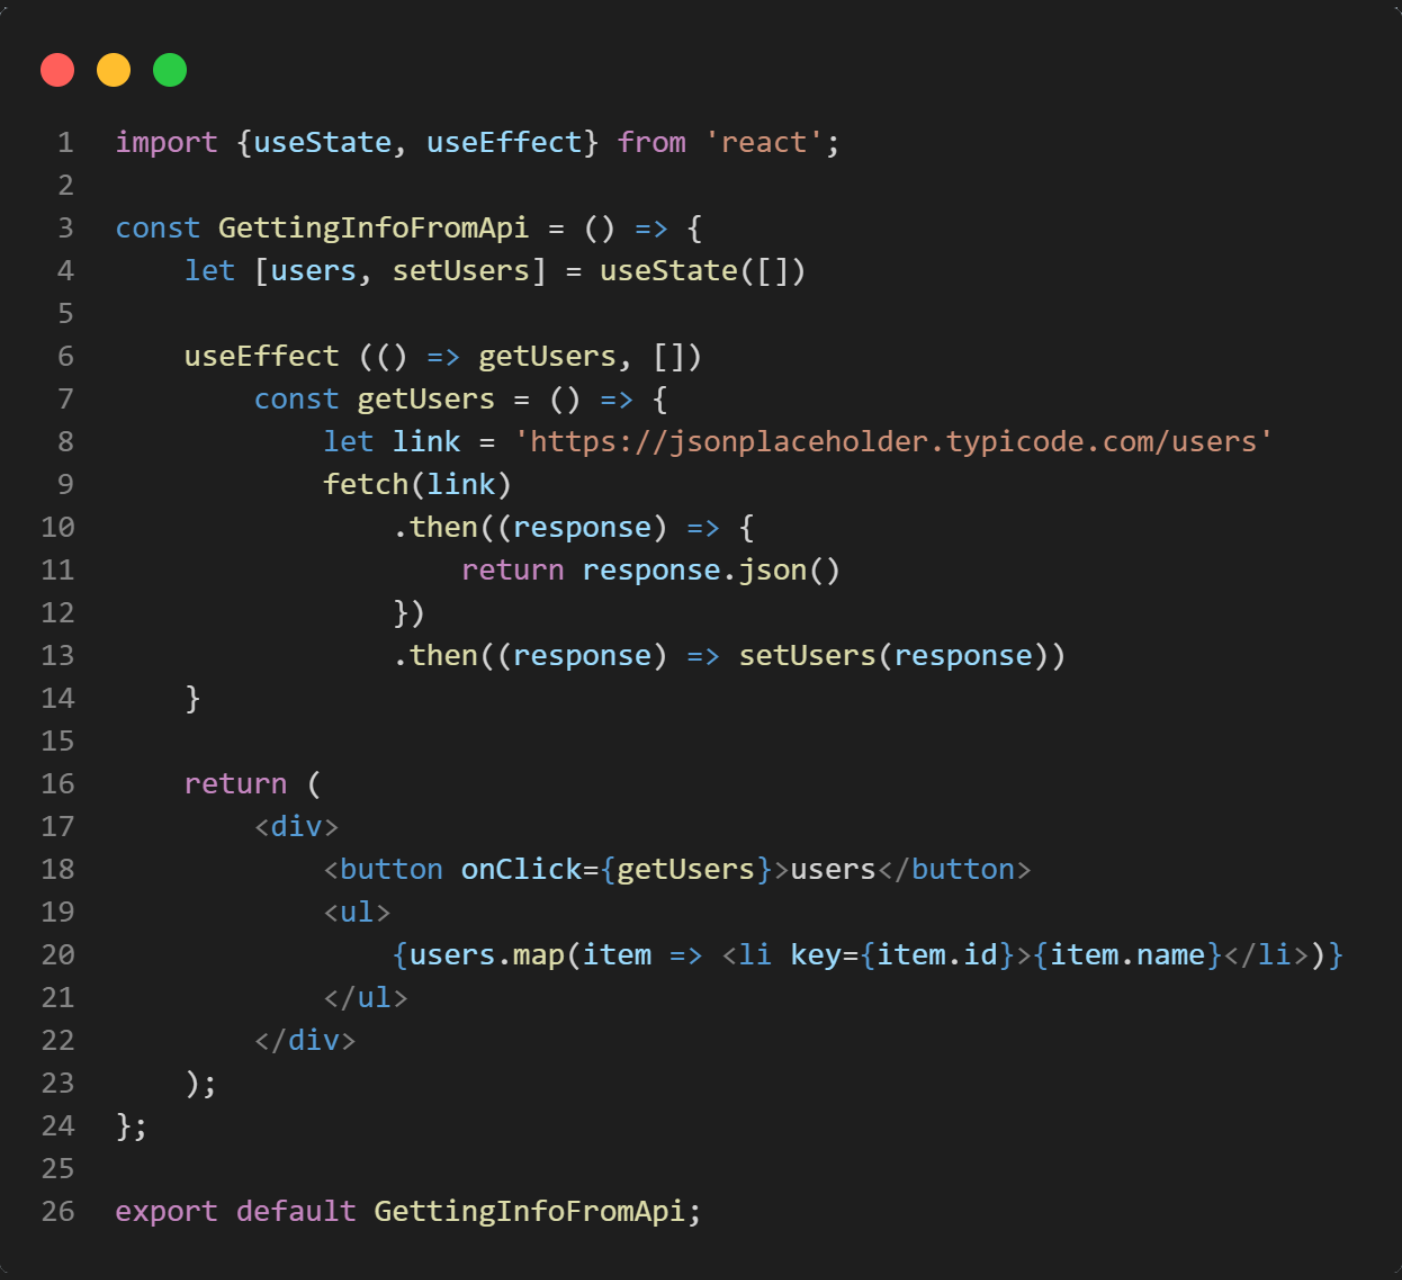
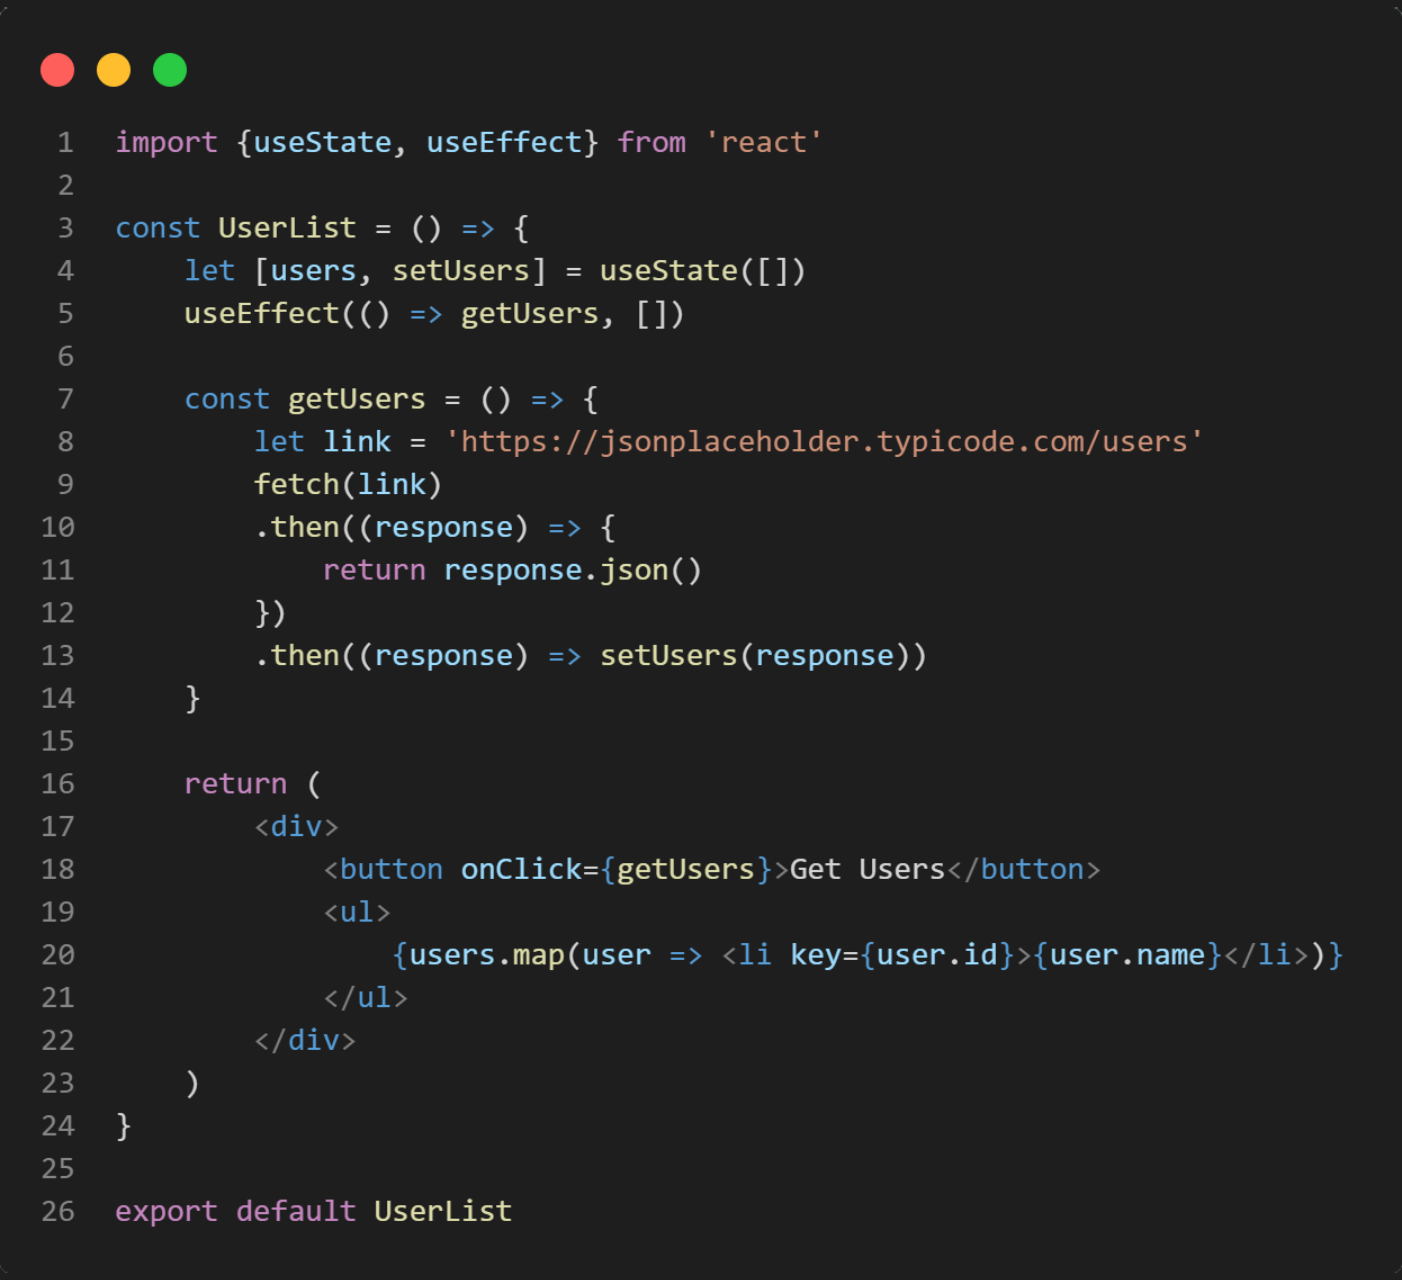
v12.3

diff --git a/src/App.js b/src/App.js
@@ -47,6 +47,7 @@ import reactSearchPattern from './images/search-pattern_react.png'
 import categoryReactPattern from './images/categories-pattern_react.png'
 import useEffectWithAllArgs from './images/useEffectWithAllArgs.png'
 import gettingInfoFromApi from './images/gettingInfoFromApi.png'
+import gettingInfoFromApiKY from './images/gettingInfoFromApiKY.png'
 
 const content = [
   {image: filterMethod, caption: 'filter', text: {ua: 'filter - це метод, що створює новий унікальний масив з чіткими критеріями на основі обранного масиву', en: 'filter is a method that creates a new unique array with specific criteria based on the selected array'}, link: 'https://developer.mozilla.org/ru/docs/Web/JavaScript/Reference/Global_Objects/Array/filter', type: 'method', code: 
@@ -521,7 +522,7 @@ console.log(isIsogram('aba'))`},
 console.log(getDirection('JS')) 
 console.log(getDirection('Python')) 
 console.log(getDirection('Dart'))`},
-  {image: reactSearchPattern, caption: 'React Search Pattern', text: {ua: 'Цей паттерн проєктування передбачає пошуковий інпут куди через атрибут onChange() передається подію, тобто літери для пошуку. Далі ці літери переходять до useState() з допомогою якого і робиться оброблення пошукового запиту', en: 'This design pattern provides a search input where an event is passed through the onChange() attribute, i.e. the letters to search for. Next, these letters go to useState(), which is used to process the search query'}, link: '#', type: 'React Pattern', code: 
+  {image: reactSearchPattern, caption: 'React Search Pattern', text: {ua: 'Цей паттерн проєктування передбачає пошуковий інпут куди через атрибут onChange() передається подію, тобто літери для пошуку. Далі ці літери переходять до useState() з допомогою якого і робиться оброблення пошукового запиту', en: 'This design pattern provides a search input where an event is passed through the onChange() attribute, i.e. the letters to search for. Next, these letters go to useState(), which is used to process the search query'}, link: '#', type: 'React', code: 
 `import {useState} from 'react' 
 
 const Filter = ({content = []}) => { 
@@ -552,7 +553,7 @@ const Filter = ({content = []}) => {
 } 
 
 export default Filter`},
-  {image: categoryReactPattern, caption: 'React Categories Pattern', text: {ua: 'Цей паттерн проєктування передабачає набір різноманітних кнопок, що можуть змінювати категорії. Це все проходить за допомогою useState(), куди записуються початковий індекс стандартної катергорії', en: 'This design pattern provides a set of various buttons that can change categories. This is all done using useState(), where the initial index of the standard category is written'}, link: '#', type: 'React Pattern', code: 
+  {image: categoryReactPattern, caption: 'React Categories Pattern', text: {ua: 'Цей паттерн проєктування передабачає набір різноманітних кнопок, що можуть змінювати категорії. Це все проходить за допомогою useState(), куди записуються початковий індекс стандартної катергорії', en: 'This design pattern provides a set of various buttons that can change categories. This is all done using useState(), where the initial index of the standard category is written'}, link: '#', type: 'React', code: 
 `import {useState} from 'react' 
 import './Categories.css' 
 
@@ -594,12 +595,12 @@ const Categories = ({content = []}) => {
         )} 
       </div> 
     </div> 
-  ); 
-}; 
+  )
+}
 
-export default Categories;`},
+export default Categories`},
 
-  {image: useEffectWithAllArgs, caption: 'All about useEffect', text: {ua: 'Хук ефекту дозволяє вам виконувати побічні ефекти в функціональному компоненті', en: 'An effect hook allows you to perform side effects in a functional component'}, link: 'https://projects.wojtekmaj.pl/react-lifecycle-methods-diagram/', type: 'React Pattern', code: 
+  {image: useEffectWithAllArgs, caption: 'All about useEffect', text: {ua: 'Хук ефекту дозволяє вам виконувати побічні ефекти в функціональному компоненті', en: 'An effect hook allows you to perform side effects in a functional component'}, link: 'https://projects.wojtekmaj.pl/react-lifecycle-methods-diagram/', type: 'React', code: 
 `
 // componentDidMount
 useEffect(() => {
@@ -624,34 +625,68 @@ useEffect(() => {
   }
 }, [])`},
 
-{image: gettingInfoFromApi, caption: 'Getting info from API', text: {ua: 'За допомогою useState() та useEffect() можно отримати інформацію з API та записати її state для майбутнього використовування', en: 'UseState() and useEffect() can be used to retrieve information from the API and record its state for future use'}, link: '#', type: 'React Pattern', code: 
+{image: gettingInfoFromApi, caption: 'Getting info from API', text: {ua: 'За допомогою useState() та useEffect() можно отримати інформацію з API та записати її state для майбутнього використовування', en: 'UseState() and useEffect() can be used to retrieve information from the API and record its state for future use'}, link: '#', type: 'React', code: 
 `
-import {useState, useEffect} from 'react';
+import {useState, useEffect} from 'react'
 
-const GettingInfoFromApi = () => {
-  let [users, setUsers] = useState([])
+const UserList = () => {
+    let [users, setUsers] = useState([])
+    useEffect(() => getUsers, [])
 
-  useEffect (() => getUsers, [])
     const getUsers = () => {
-    let link = 'https://jsonplaceholder.typicode.com/users'
-    fetch(link)
-      .then((response) => { 
-        return response.json() 
-      })
-    .then((response) => setUsers(response))
-  }
+        let link = 'https://jsonplaceholder.typicode.com/users'
+        fetch(link)
+        .then((response) => {
+            return response.json()
+        })
+        .then((response) => setUsers(response))
+    }
 
-  return (
-    <div>
-      <button onClick={getUsers}>users</button>
-        <ul>
-          {users.map(item => <li key={item.id}>{item.name}</li>)}
-        </ul>
-    </div>
-  );
-};
+    return (
+        <div>
+            <button onClick={getUsers}>Get Users</button>
+            <ul>
+                {users.map(user => <li key={user.id}>{user.name}</li>)}
+            </ul>
+        </div>
+    )
+}
 
-export default GettingInfoFromApi;`},
+export default UserList`},
+
+{image: gettingInfoFromApi, caption: 'Getting info from API by KY', text: {ua: 'За допомогою useState() та useEffect() можно отримати інформацію з API та записати її state для майбутнього використовування. А саму інформацію можно взяти за допомогою бібліотеки KY.js', en: 'UseState() and useEffect() can be used to retrieve information from the API and record its state for future use. And the information itself can be taken using the KY.js library'}, link: 'https://github.com/sindresorhus/ky', type: 'React', code: 
+`
+import {useState, useEffect} from 'react'
+import ky from 'ky'
+
+const api = ky.create({
+    prefixUrl: "https://jsonplaceholder.typicode.com/"
+})
+
+const UserListKY = () => {
+    const [users, setUsers] = useState([])
+    useEffect(() => getUsers, [])
+
+    async function getUsers () {
+        try {
+            const arrayOfUsers = await api.get('users').json()
+            setUsers(arrayOfUsers)
+        } catch (error) {
+            console.log(error.message)
+        }
+    }
+
+    return (
+        <div>
+            <button onClick={getUsers}>Get Users by KY</button>
+            <ul>
+                {users.map(user => <li key={user.id}>{user.name}</li>)}
+            </ul>
+        </div>
+    )
+}
+
+export default UserListKY`}
 ]
 
 function App() {

diff --git a/src/components/Filter.js b/src/components/Filter.js
@@ -10,7 +10,7 @@ const types = [
     'request',
     'exercise',
     'OOP',
-    'React Pattern'
+    'React'
 ]
 
 const Filter = ({content}) => {

diff --git a/README.md b/README.md
@@ -128,3 +128,7 @@ New Post
 ### `v12.2.1`
 
 Some addictions
+
+### `v12.3.`
+
+New Post
